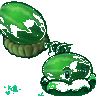
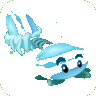
feat(wintermelon): use authentic PVZ1 Winter Melon sprite (with icicle + ice-shade)
Replaced the previous green-to-blue recolor (which lost the 'icy' feel)
with the real PVZ1 Winter Melon static from wiki.gg (Winter_MelonO.png,
96x96, with the iconic icicle + snow-cap on top and the blue-white melon
sphere below). User feedback: 'ice color and icicle were not standing out
enough' — now both are clearly visible.

- WinterMelon/WinterMelon.png: PVZ1 96x96 static, icicle + ice-melon.
- MelonPult/WinterMelon.png: bullet (64x64) cropped from the ice-melon
  sphere in Winter_MelonO.
- MelonPult/WinterMelon_small.png: 32x32 bullet for cattail variant.
- New helper keyout_winter.py (numpy color-keyout r<80 & g-r>100 to
  drop the green grass background; works for cooler PVZ1 grass tones
  that the previous MelonPult-only threshold missed).
- Bumped v3.2.3 -> v3.2.4-winterice (asset 1788075960).

diff --git a/pvz-web/index.html b/pvz-web/index.html
@@ -4,7 +4,7 @@
     <meta charset="UTF-8">
     <meta name="viewport" content="width=device-width, initial-scale=1.0">
     <title>Plants vs Zombies - Web Clone</title>
-    <link rel="stylesheet" href="css/style.css?v=1788075327">
+    <link rel="stylesheet" href="css/style.css?v=1788075960">
 </head>
 <body>
     <div id="game-container">
@@ -119,16 +119,16 @@
                 });
         })();
     </script>
-    <script src="js/InputManager.js?v=1788075327"></script>
-    <script src="js/Board.js?v=1788075327"></script>
-    <script src="js/entities/Entity.js?v=1788075327"></script>
-    <script src="js/entities/Plant.js?v=1788075327"></script>
-    <script src="js/entities/Zombie.js?v=1788075327"></script>
-    <script src="js/entities/Projectile.js?v=1788075327"></script>
-    <script src="js/entities/Sun.js?v=1788075327"></script>
-    <script src="js/managers/WaveManager.js?v=1788075327"></script>
-    <script src="js/managers/CollisionManager.js?v=1788075327"></script>
-    <script src="js/managers/EventManager.js?v=1788075327"></script>
-    <script src="js/GameLoop.js?v=1788075327"></script>
+    <script src="js/InputManager.js?v=1788075960"></script>
+    <script src="js/Board.js?v=1788075960"></script>
+    <script src="js/entities/Entity.js?v=1788075960"></script>
+    <script src="js/entities/Plant.js?v=1788075960"></script>
+    <script src="js/entities/Zombie.js?v=1788075960"></script>
+    <script src="js/entities/Projectile.js?v=1788075960"></script>
+    <script src="js/entities/Sun.js?v=1788075960"></script>
+    <script src="js/managers/WaveManager.js?v=1788075960"></script>
+    <script src="js/managers/CollisionManager.js?v=1788075960"></script>
+    <script src="js/managers/EventManager.js?v=1788075960"></script>
+    <script src="js/GameLoop.js?v=1788075960"></script>
 </body>
 </html>

diff --git a/keyout_winter.py b/keyout_winter.py
@@ -1,0 +1,66 @@
+"""
+PVZ1 原版 Winter Melon 抠背景 + 提取子弹。
+- Winter_MelonO.png 96x96 PVZ1 原版静态（投石车+冰柱+冰蓝白西瓜+小虫） → 抠背景作为植物
+- 子弹：从 Winter_MelonO.png 裁剪"圆形冰西瓜"部分（去掉底部投石车+眼睛）
+"""
+import numpy as np
+from PIL import Image
+
+
+def keyout_grass_v2(img):
+    """更稳的颜色键控：草色判断 = r 低 + g 显著大于 r。
+    MelonPult 草: rgb(16, 170, 22)  -> g-r=154
+    WinterMelon 草: rgb(23, 179, 119) -> g-r=156 (g-b=60)
+    通用条件：g - r > 100 且 r < 80 → 草
+    """
+    img = img.convert("RGBA")
+    arr = np.array(img)
+    r = arr[:, :, 0].astype(np.int16)
+    g = arr[:, :, 1].astype(np.int16)
+    b = arr[:, :, 2].astype(np.int16)
+    a = arr[:, :, 3].copy()
+
+    # 草：r 低 且 g 比 r 大很多
+    grass_mask = (r < 80) & ((g - r) > 100)
+
+    # 边缘羽化：alpha 渐变
+    # 如果像素接近草色但不完全相同，半透明
+    dist_to_grass = np.where(grass_mask, 255, 0)
+
+    a = np.where(grass_mask, 0, a).astype(np.uint8)
+    arr[:, :, 3] = a
+    return Image.fromarray(arr, "RGBA")
+
+
+def crop_ice_melon_bullet(src_img):
+    """从 Winter_MelonO.png 抠出'圆形冰西瓜'部分作为子弹（去掉底部投石车+眼睛+顶部雪柱）。
+    96x96 中，圆形西瓜在中间偏下大约 (8, 30) ~ (88, 90)。
+    子弹要 64x64。"""
+    img = src_img.convert("RGBA")
+    # 裁剪: 上 30~88 (西瓜主体), 水平 5~90
+    cropped = img.crop((5, 30, 91, 88))
+    # resize 到 64x64
+    return cropped.resize((64, 64), Image.LANCZOS)
+
+
+def main():
+    out = '/Users/clawbox/nexus-hub/pvz-web/assets/images/Plants'
+
+    # ===== 植物本图 =====
+    plant = Image.open('/Users/clawbox/nexus-hub/pvz-web/assets/images/Plants/_orig/Winter_MelonO.png').convert("RGBA")
+    plant_clean = keyout_grass_v2(plant)
+    plant_clean.save(f'{out}/WinterMelon/WinterMelon.png', 'PNG')
+    print('saved WinterMelon/WinterMelon.png  ', plant_clean.size, '  (PVZ1 原版冰西瓜静态)')
+
+    # ===== 子弹（从植物图抠圆冰西瓜部分）=====
+    bullet = crop_ice_melon_bullet(plant_clean)
+    bullet.save(f'{out}/MelonPult/WinterMelon.png', 'PNG')
+    print('saved MelonPult/WinterMelon.png  (winter bullet)  ', bullet.size)
+
+    # cattail 小尺寸
+    bullet.resize((32, 32), Image.LANCZOS).save(f'{out}/MelonPult/WinterMelon_small.png', 'PNG')
+    print('saved MelonPult/WinterMelon_small.png 32x32')
+
+
+if __name__ == '__main__':
+    main()
